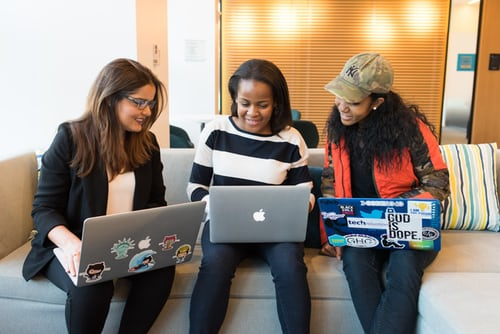
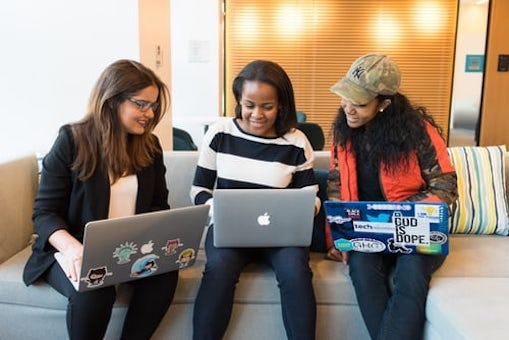
carousel

diff --git a/gallery.html b/gallery.html
@@ -75,6 +75,7 @@
     <div class="contrast">
       <h2>Empowering Gallery</h2>
     </div>
+    <br>
 
     <!-- carousel -->
     <div class="container">
@@ -88,26 +89,26 @@
         
         <div class="carousel-inner">
           <div class="carousel-item active">
-            <img src="images/example1.png" class="img-fluid d-block w-100 tales" alt="First slide">
+            <img src="images/Caousel 6.jpg" class="img-fluid d-block w-100" alt="First slide">
             <div class="carousel-caption d-none d-md-block">
-              <h3>Title</h3>
-              <h4>blablabalbal</h4>
+              <h3>CFG is</h3>
+              <h4>Collaborative</h4>
             </div>
           </div>
 
           <div class="carousel-item">
-            <img src="images/example2.png" class="img-fluid d-block w-100 tales" alt="Second slide">
+            <img src="images/Carousel 8.jpg" class="img-fluid d-block w-100" alt="Second slide">
             <div class="carousel-caption d-none d-md-block">
-              <h3>Title</h3>
-              <h4>blablabalbal</h4>
+              <h3>CFG has</h3>
+              <h4>Homework and projects every week</h4>
             </div>
           </div>
           
           <div class="carousel-item">
-            <img src="images/example3.png" class="img-fluid d-block w-100 tales" alt="Third slide">
+            <img src="images/Carousel 9.jpg" class="img-fluid d-block w-100" alt="Third slide">
             <div class="carousel-caption d-none d-md-block">
-              <h3>Title</h3>
-              <h4>blablabalbal</h4>
+              <h3>CFG network</h3>
+              <h4>can motivate you into the coding world</h4>
             </div>
           </div>
         

diff --git a/css/gallery.css b/css/gallery.css
@@ -27,7 +27,8 @@ h2 {
 
 h3 {
   font-family: 'Ubuntu', sans-serif;
-  color: #5d3e7e;
+  color: #ffffff;
+  text-shadow: 1px 1px 1px #5d3e7e;
   text-align: center;
   font-style: bold;
 }
@@ -48,14 +49,14 @@ div.contrast {
   align-items: center;
   flex-direction: column;
 }
-/* 
-.tales {
-  width: 50%;
+
+div > ul > li {
+  text-align: center;
 }
-.carousel-inner{
-  width:100%;
-  max-height: 300px !important;
-  margin: auto;
+
+div.container{
+    width: 40%;
+    /* height: 50px; */
 }
 
 /* Smaller than standard 960 (devices and browsers) */
@@ -72,13 +73,3 @@ div.contrast {
 
 /* Mobile Portrait Size to Mobile Landscape Size (devices and browsers) */
 @media only screen and (max-width: 479px) {}
-
-/* p {
-  width: 40%;
-  margin: 10vh 10vw;
-  font-size: 15px;
-} */ */
-
-div > ul > li {
-  text-align: center;
-}
